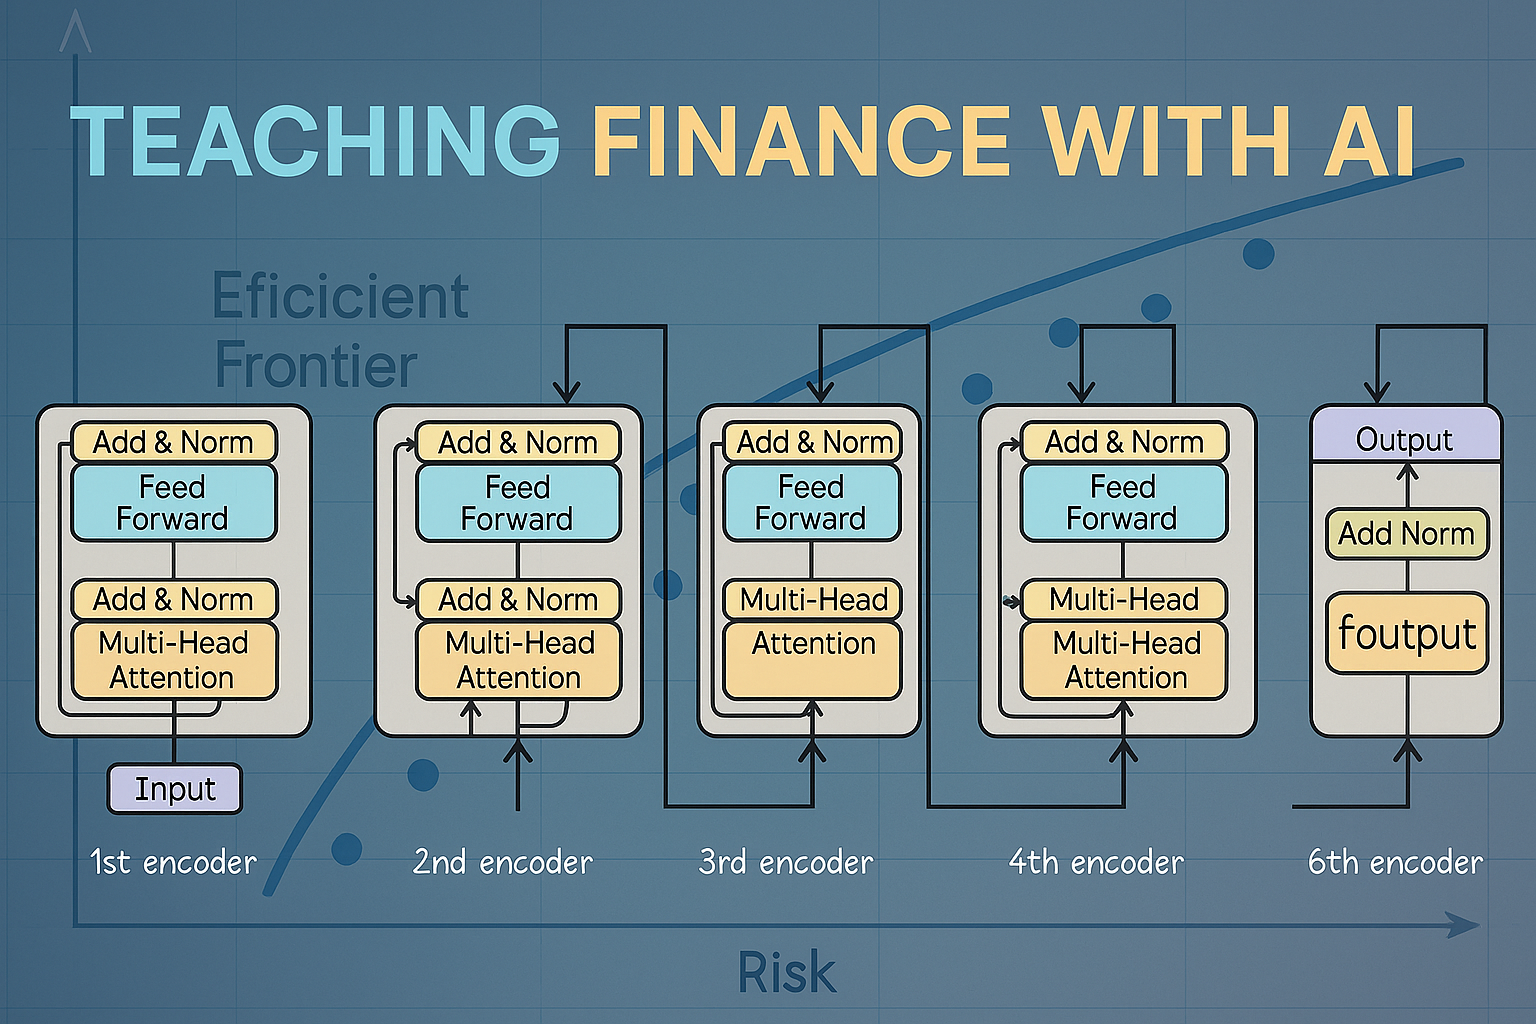
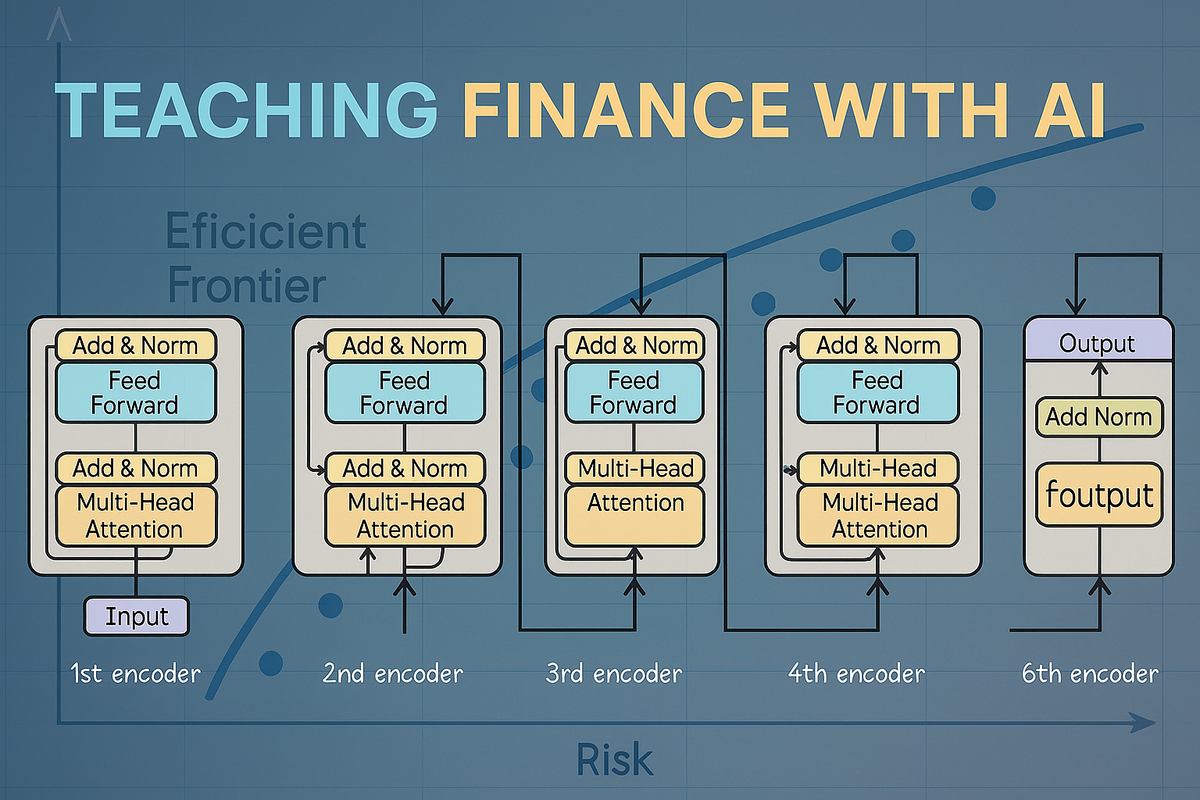
Compress image2.png for better performance
- Reduced file size from 2.2MB to 1.2MB (45% reduction)
- Applied 85% quality compression
- Limited maximum dimensions to 1200x1200 pixels
- Updated both root and docs directory images

🤖 Generated with [Claude Code](https://claude.ai/code)

diff --git a/docs/index.html b/docs/index.html
@@ -341,7 +341,7 @@ document.addEventListener('DOMContentLoaded', function() {
 </section>
 <section id="tools" class="level2">
 <h2 class="anchored" data-anchor-id="tools">Tools</h2>
-<p>Currently, the best tool for my course is Google Colab. It is free Python environment in the cloud and has built-in Gemini assistance. There is no software to install, so there is no set-up required. Students need a little instruction in how to navigate Jupyter notebooks. I’ll say more about that below.</p>
+<p>Currently, the best tool for my course is Google Colab. It is a free Python environment in the cloud and has built-in Gemini assistance. There is no software to install, so there is no set-up required. Students need a little instruction in how to navigate Jupyter notebooks. I’ll say more about that below.</p>
 <p>In previous years, I used <a href="https://julius.ai">Julius.ai</a>. It is a bit simpler to use, because it is a simple chatbot interface rather than a Jupyter notebook See my <a href="https://kerryback.substack.com/p/07-mean-variance-analysis">blog post about Julius</a>. It also provides access to LLMs from OpenAI and Anthropic, whereas Colab only offers Google Gemini. However, while Anthropic’s Claude is still the best coding LLM, Gemini has caught up considerably and is now a solid choice. Furthermore, Colab offers the following advantages: it is free, it produces Jupyter notebooks that are portable, and it can deploy apps to the cloud.</p>
 </section>
 <section id="first-topic-writing-code" class="level2">
